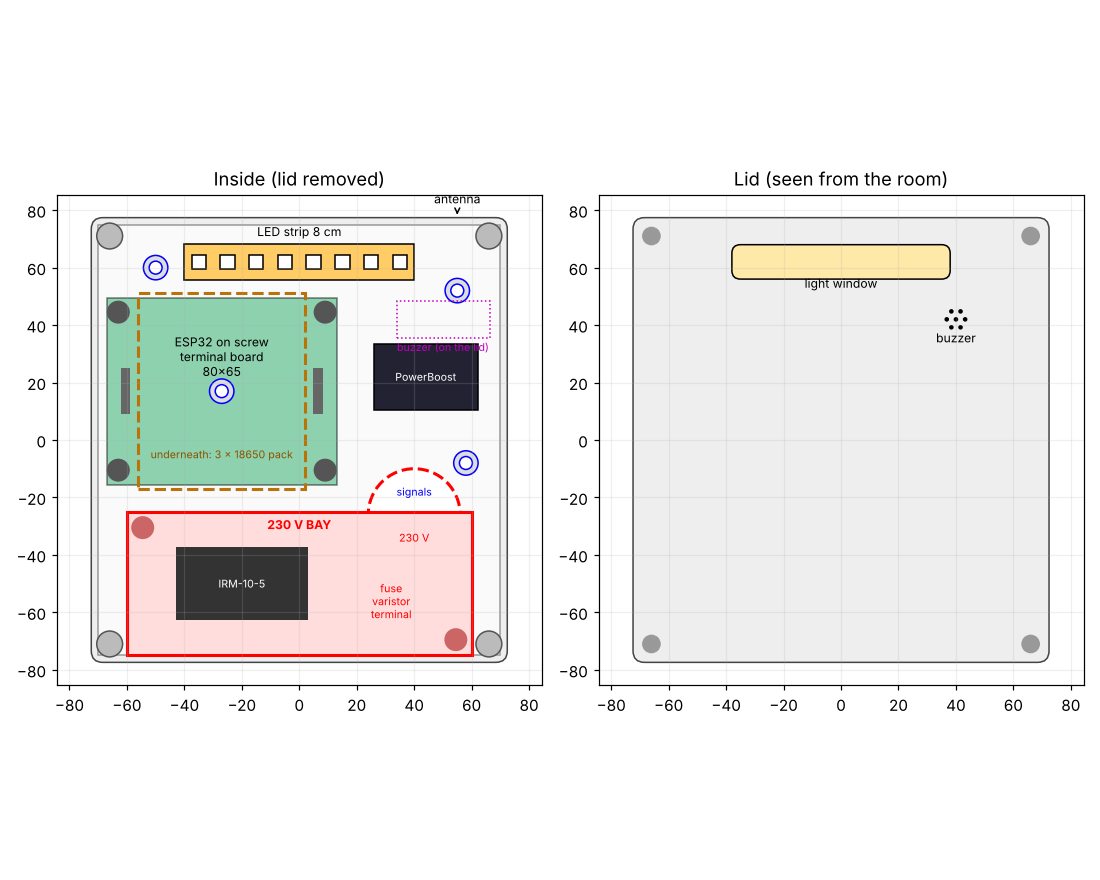
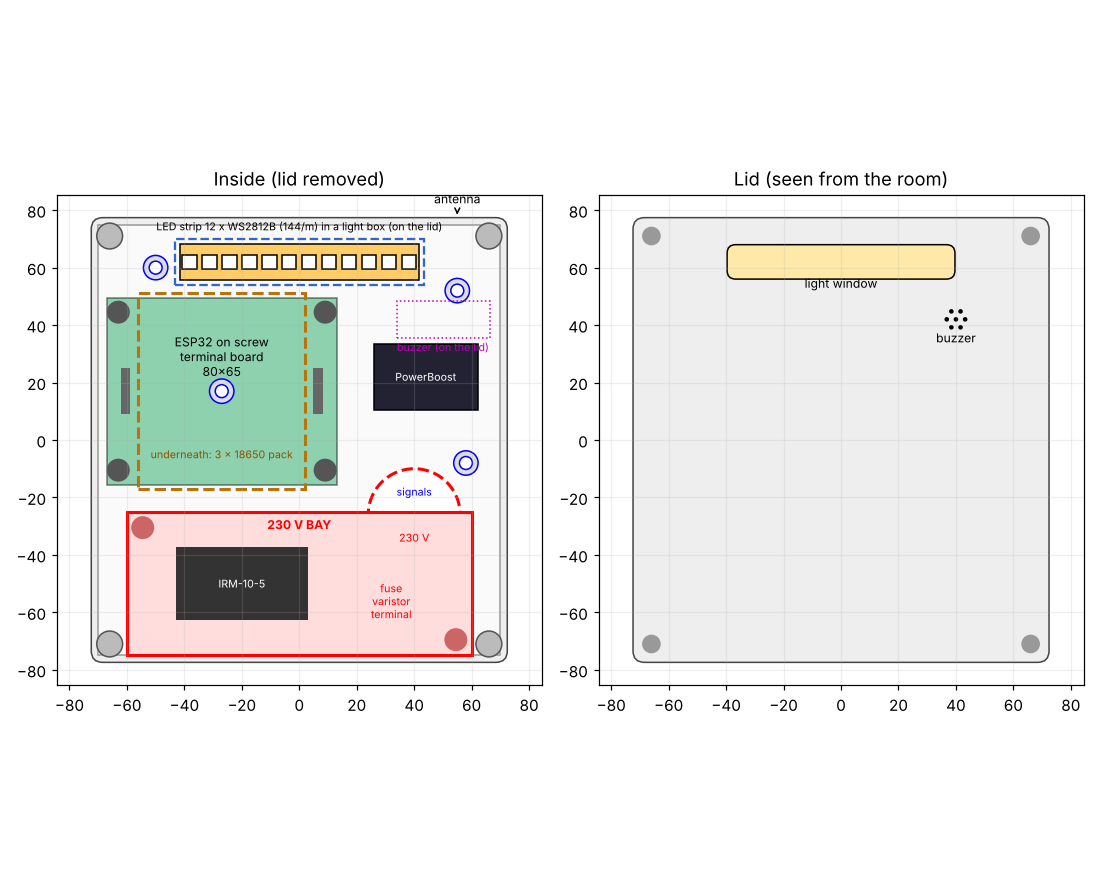
LED status: 144 LEDs/m strip (12 LEDs) with light box and 1.6 mm diffuser
- Enclosure: led_n 12, led_pitch 1000/144, strip_w 10.6, led_gap 12,
  diff_t 1.6, light box walls hanging from the lid with wire notches
- Firmware: num_leds 12, scan width 3
- README and preview updated

Claude-Session: https://claude.ai/code/session_015e9f9p5EFhy5EoRU7fAuGL

Changed region(s): [[0.1545, 0.2455, 0.4018, 0.3375], [0.8345, 0.2761, 0.8964, 0.3068], [0.6491, 0.2761, 0.68, 0.3068]]

diff --git a/README.md b/README.md
@@ -26,7 +26,7 @@ Tested with **ESPHome 2026.9.1**, an ESP32-WROOM-32U DevKit (38 pin) and a **Nuk
 | `common/base_config.yaml` | Shared ESPHome package: Wi-Fi, encrypted OTA/API, SNTP, diagnostics (its diagnostic entity names are still in Italian, since other devices share it). |
 | `common/secrets.example.yaml` | Secrets you need to provide (copy to `secrets.yaml`). |
 | `placca-503-campanello.scad` | OpenSCAD outdoor plate for an Italian 503 flush box (OLED, R503, PIR, push button, buzzer, reed, rubber cord seal). The seat for the tamper microswitch is still to be added. |
-| `scatola-esp32-interna.scad` | OpenSCAD indoor enclosure: ESP32 terminal board over the battery pack, PowerBoost, LED strip window, indoor buzzer, separate 230 V bay. |
+| `scatola-esp32-interna.scad` | OpenSCAD indoor enclosure: ESP32 terminal board over the battery pack, PowerBoost, LED strip with light box and diffuser, indoor buzzer, separate 230 V bay. |
 | `scatola-esp32-anteprima.png` | Layout preview of the indoor enclosure. |
 | `esp32-nuki-fingerprint.code-workspace` | VS Code / Studio Code Server workspace: opens the YAML files as plain YAML and declares the ESPHome tags (`!lambda`, `!secret`...), so the editor shows no false "Unresolved tag" errors. |
 | `power schema.pdf` | Backup power wiring: power supply, PowerBoost 1000C, battery and the two voltage dividers. |
@@ -38,7 +38,7 @@ Tested with **ESPHome 2026.9.1**, an ESP32-WROOM-32U DevKit (38 pin) and a **Nuk
 - SSD1306 0.96" OLED, 7-pin SPI version (**CS must be wired to a GPIO**, not tied to GND)
 - AM312 PIR (HW-740) with a **100 kΩ** pull-down (10 kΩ is too strong for its output)
 - 2 × passive buzzer modules ("low level trigger"), outdoor and indoor
-- WS2812 strip, 8 LEDs (330 Ω in series with DIN)
+- WS2812B strip, 144 LEDs/m, 10 mm wide (e.g. BTF-LIGHTING ECO IP30), cut to 12 LEDs (330 Ω in series with DIN). The enclosure lid has a light box and a white 1.6 mm diffuser, so the LEDs show as one even bar instead of separate dots. For a 60 LEDs/m strip or an 8-LED stick change `led_n`/`led_pitch` in the enclosure and `num_leds` in the firmware.
 - 19 mm vandal-proof push button with 3–6 V LED ring
 - Subminiature lever microswitch (20 × 10.8 × 6.5 mm, steel lever, C/NO/NC contacts; use C + NO)
 - Reed switch + 6 × 2 mm magnet, wired in series with the microswitch
